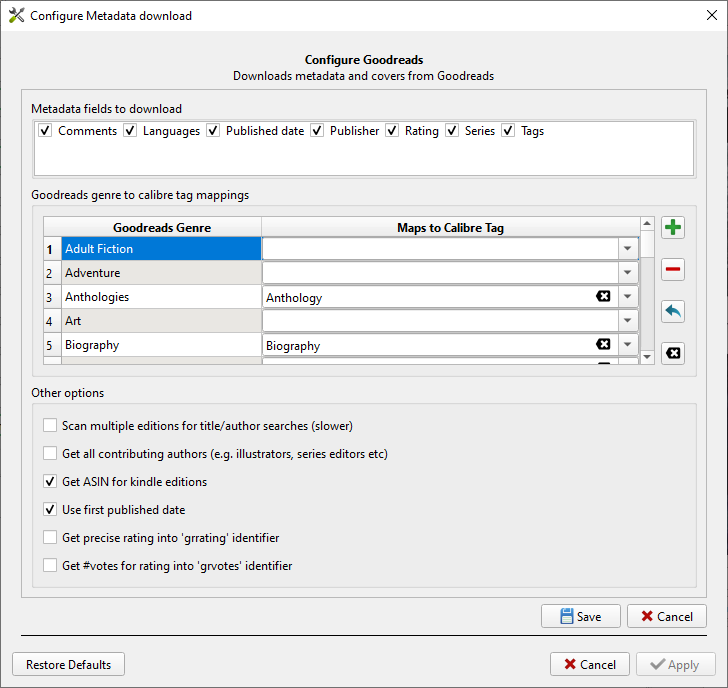
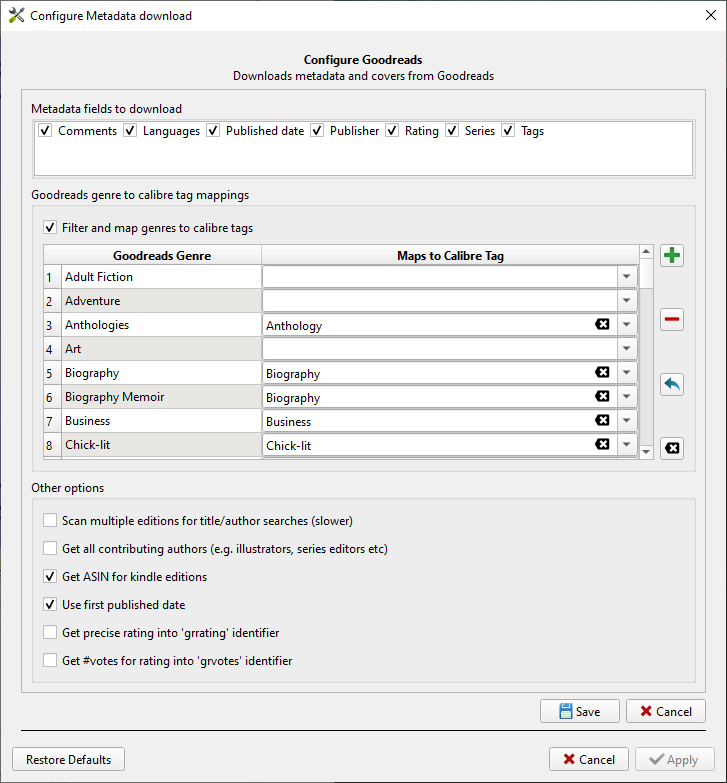
No longer support hierarchical genre tags, add option to not filter tags.

diff --git a/goodreads_sync/action.py b/goodreads_sync/action.py
@@ -356,10 +356,7 @@ class GoodreadsSyncAction(InterfaceAction):
 
     def _update_goodreads_ids(self, calibre_books, msg, previous):
         # When finally exiting, update the Goodreads Id and ISBN where any were changed
-        debug_print("_update_goodreads_ids - Start")
-        debug_print("_update_goodreads_ids - Calling: _update_calibre_database_ids_for_selection for %s books" % len(calibre_books))
         self._update_calibre_database_ids_for_selection(calibre_books)
-#         self._update_calibre_database_ids_after_sync(calibre_books)
 
         self.gui.status_bar.showMessage(msg)
         debug_print("_update_goodreads_ids - status message: %s" % msg)
@@ -524,12 +521,10 @@ class GoodreadsSyncAction(InterfaceAction):
 
     def _update_calibre_database_ids_for_selection(self, calibre_books):
         # Our collection of books are a selection in calibre
-        debug_print("_update_calibre_database_ids_for_selection - Start")
         db = self.gui.library_view.model().db
-        gr_cache = self.id_caches.goodreads_to_calibre_ids()
-        cb_cache = self.id_caches.calibre_to_goodreads_ids()
+        _gr_cache = self.id_caches.goodreads_to_calibre_ids()
+        _cb_cache = self.id_caches.calibre_to_goodreads_ids()
         for book in calibre_books:
-            debug_print("_update_calibre_database_ids_for_selection - Processing book id: %s" % book['calibre_id'])
             self.progressbar_label("Updating book %s" % book['calibre_id'])
             self.progressbar_increment()
             book['updated'] = False
@@ -538,10 +533,6 @@ class GoodreadsSyncAction(InterfaceAction):
             orig_goodreads_id = book.get('orig_goodreads_id', None)
             isbn = book['calibre_isbn']
             orig_isbn = book['orig_calibre_isbn']
-            debug_print("_update_calibre_database_ids_for_selection - goodreads_id: %s" % goodreads_id)
-            debug_print("_update_calibre_database_ids_for_selection - orig_goodreads_id: %s" % orig_goodreads_id)
-            debug_print("_update_calibre_database_ids_for_selection - isbn: %s" % isbn)
-            debug_print("_update_calibre_database_ids_for_selection - orig_isbn: %s" % orig_isbn)
             if isbn and isbn != orig_isbn:
                 db.set_isbn(calibre_id, isbn, notify=False, commit=False)
                 book['updated'] = True
@@ -549,23 +540,7 @@ class GoodreadsSyncAction(InterfaceAction):
                 continue
             db.set_identifier(calibre_id, 'goodreads', goodreads_id, notify=False, commit=False)
             book['updated'] = True
-            continue
-            # We need to maintain our in-memory cache of mapped ids.
-            cb_cache[calibre_id] = goodreads_id
-            calibre_ids_mapped = gr_cache.get(goodreads_id, [])
-            calibre_ids_mapped.append(calibre_id)
-            gr_cache[goodreads_id] = calibre_ids_mapped
-            if orig_goodreads_id:
-                # Book was mapped to a different id previously. Remove old mapping if exists
-                orig_calibre_ids_mapped = gr_cache.get(orig_goodreads_id, [])
-                if calibre_id in orig_calibre_ids_mapped:
-                    orig_calibre_ids_mapped.remove(calibre_id)
-                    if len(orig_calibre_ids_mapped) == 0:
-                        del gr_cache[orig_goodreads_id]
-                    else:
-                        gr_cache[orig_goodreads_id] = orig_calibre_ids_mapped
         db.commit()
-        debug_print("_update_calibre_database_ids_for_selection - Finish")
 
     def _is_valid_selection(self):
         rows = self.gui.library_view.selectionModel().selectedRows()

diff --git a/goodreads/config.py b/goodreads/config.py
@@ -41,6 +41,7 @@ KEY_GET_RATING = 'getRating'
 KEY_GET_VOTES = 'getVotes'
 KEY_FIRST_PUBLISHED = 'firstPublished'
 KEY_GENRE_MAPPINGS = 'genreMappings'
+KEY_MAP_GENRES = 'mapGenres'
 
 DEFAULT_GENRE_MAPPINGS = {
                 'Anthologies': ['Anthologies'],
@@ -72,7 +73,7 @@ DEFAULT_GENRE_MAPPINGS = {
                 'Humor': ['Humour'],
                 'Health': ['Health'],
                 'Inspirational': ['Inspirational'],
-                'Sequential Art > Manga': ['Manga'],
+                'Manga': ['Manga'],
                 'Modern': ['Modern'],
                 'Music': ['Music'],
                 'Mystery': ['Mystery'],
@@ -94,11 +95,10 @@ DEFAULT_GENRE_MAPPINGS = {
                 'Suspense': ['Suspense'],
                 'Thriller': ['Thriller'],
                 'Travel': ['Travel'],
-                'Paranormal > Vampires': ['Vampires'],
+                'Vampires': ['Vampires'],
                 'War': ['War'],
                 'Western': ['Western'],
-                'Language > Writing': ['Writing'],
-                'Writing > Essays': ['Writing'],
+                'Writing': ['Writing'],
                 'Young Adult': ['Young Adult'],
                 }
 
@@ -109,6 +109,7 @@ DEFAULT_STORE_VALUES = {
     KEY_GET_RATING: False,
     KEY_GET_VOTES: False,
     KEY_FIRST_PUBLISHED: True,
+    KEY_MAP_GENRES: True,
     KEY_GENRE_MAPPINGS: copy.deepcopy(DEFAULT_GENRE_MAPPINGS)
 }
 
@@ -224,6 +225,12 @@ class ConfigWidget(DefaultConfigWidget):
         genre_group_box_layout = QVBoxLayout()
         genre_group_box.setLayout(genre_group_box_layout)
 
+        self.map_genres_checkbox = QCheckBox(_('Filter and map genres to calibre tags'), self)
+        self.map_genres_checkbox.setToolTip(_('When checked, only specific calibre tags will be used as per below.\n'
+                                              'When unchecked, all Goodreads genres will be added as tags.'))
+        self.map_genres_checkbox.setChecked(c.get(KEY_MAP_GENRES, DEFAULT_STORE_VALUES[KEY_MAP_GENRES]))
+        genre_group_box_layout.addWidget(self.map_genres_checkbox)
+
         tags_layout = QHBoxLayout()
         genre_group_box_layout.addLayout(tags_layout)
 
@@ -313,6 +320,7 @@ class ConfigWidget(DefaultConfigWidget):
         new_prefs[KEY_FIRST_PUBLISHED] = self.first_published_checkbox.checkState() == Qt.Checked
         new_prefs[KEY_GET_RATING] = self.get_rating_checkbox.checkState() == Qt.Checked
         new_prefs[KEY_GET_VOTES] = self.get_votes_checkbox.checkState() == Qt.Checked
+        new_prefs[KEY_MAP_GENRES] = self.map_genres_checkbox.checkState() == Qt.Checked
         new_prefs[KEY_GENRE_MAPPINGS] = self.edit_table.get_data()
         plugin_prefs[STORE_NAME] = new_prefs
 

diff --git a/goodreads/worker.py b/goodreads/worker.py
@@ -701,6 +701,7 @@ class Worker(Thread): # Get details
                 genre_name = book_genre_json["genre"]["name"]
                 genre_tags.append(genre_name)
         calibre_tags = self._convert_genres_to_calibre_tags(genre_tags)
+        self.log.info("parse_tags: %s"%','.join(calibre_tags))
         if len(calibre_tags) > 0:
             return calibre_tags
 
@@ -708,21 +709,28 @@ class Worker(Thread): # Get details
         # Goodreads does not have "tags", but it does have Genres (wrapper around popular shelves)
         # We will use those as tags (with a bit of massaging)
         genres_node = root.xpath('//div[@class="stacked"]/div/div/div[contains(@class, "bigBoxContent")]/div/div[@class="left"]')
-        #self.log.info("Parsing tags")
         if genres_node:
-            #self.log.info("Found genres_node")
             genre_tags = list()
             for genre_node in genres_node:
                 sub_genre_nodes = genre_node.xpath('a')
                 genre_tags_list = [sgn.text.strip() for sgn in sub_genre_nodes]
                 #self.log.info("Found genres_tags list:", genre_tags_list)
                 if genre_tags_list:
-                    genre_tags.append(' > '.join(genre_tags_list))
+                    # As of 1.7.1 we will only get the last genre and pass this through, because
+                    # the new website design in 2022 does not have hierachical genres.
+                    # Old website would have e.g. Fantasy, Fantasy -> Urban Fantasy, ...
+                    # New website just has: Fantasy, Urban Fantasy, ...
+                    genre_tags.append(genre_tags_list[-1])
             calibre_tags = self._convert_genres_to_calibre_tags(genre_tags)
+            self.log.info("parse_tags_legacy: ",','.join(calibre_tags))
             if len(calibre_tags) > 0:
                 return calibre_tags
 
     def _convert_genres_to_calibre_tags(self, genre_tags):
+        map_genres = cfg.plugin_prefs[cfg.STORE_NAME].get(cfg.KEY_MAP_GENRES, cfg.DEFAULT_STORE_VALUES[cfg.KEY_MAP_GENRES])
+        if not map_genres:
+            # User has disabled Goodreads tag filtering/mapping - all genres become tags
+            return genre_tags
         # for each tag, add if we have a dictionary lookup
         calibre_tag_lookup = cfg.plugin_prefs[cfg.STORE_NAME][cfg.KEY_GENRE_MAPPINGS]
         calibre_tag_map = dict((k.lower(),v) for (k,v) in calibre_tag_lookup.items())

diff --git a/goodreads/__init__.py b/goodreads/__init__.py
@@ -30,7 +30,7 @@ class Goodreads(Source):
     name = 'Goodreads'
     description = 'Downloads metadata and covers from Goodreads'
     author = 'Grant Drake'
-    version = (1, 7, 0)
+    version = (1, 7, 1)
     minimum_calibre_version = (2, 0, 0)
 
     capabilities = frozenset(['identify', 'cover'])

diff --git a/goodreads/CHANGELOG.md b/goodreads/CHANGELOG.md
@@ -1,9 +1,15 @@
 # Goodreads Change Log
 
+## [1.7.1] - 2022-10-09
+### Added
+- Added an option to ignore all genre -> tag mappings, to get all genres from Goodreads. Increase your `Max number of tags to download` setting if you use this option because you may miss tags otherwise.
+### Changed
+- No longer support hierarchical genres (as not in new website design). So a book with genres of `Fantasy` and `Fantasy > Urban Fantasy` will get returned with `Fantasy` and `Urban Fantasy` genres instead on old web pages. The new web page design will also return the same. Users should review their genre mappings in the configuration dialog and replace any `X > Y` hierarchical mappings with one for just `Y` instead.
+
 ## [1.7.0] - 2022-09-24
 _All kiwidude plugins updated/migrated to: https://github.com/kiwidude68/calibre_plugins_
 ### Added
-- Added configuration option to download precise goodreads rating and review vote count into two identifiers `grrating` and `grvotes`
+- Added configuration option to download precise Goodreads rating and review vote count into two identifiers `grrating` and `grvotes`
     - The new identifiers can be bound to custom columns in calibre.
     - See `README.md` for details of how to do this.
 - Added Russian translations (@Caarmi)
